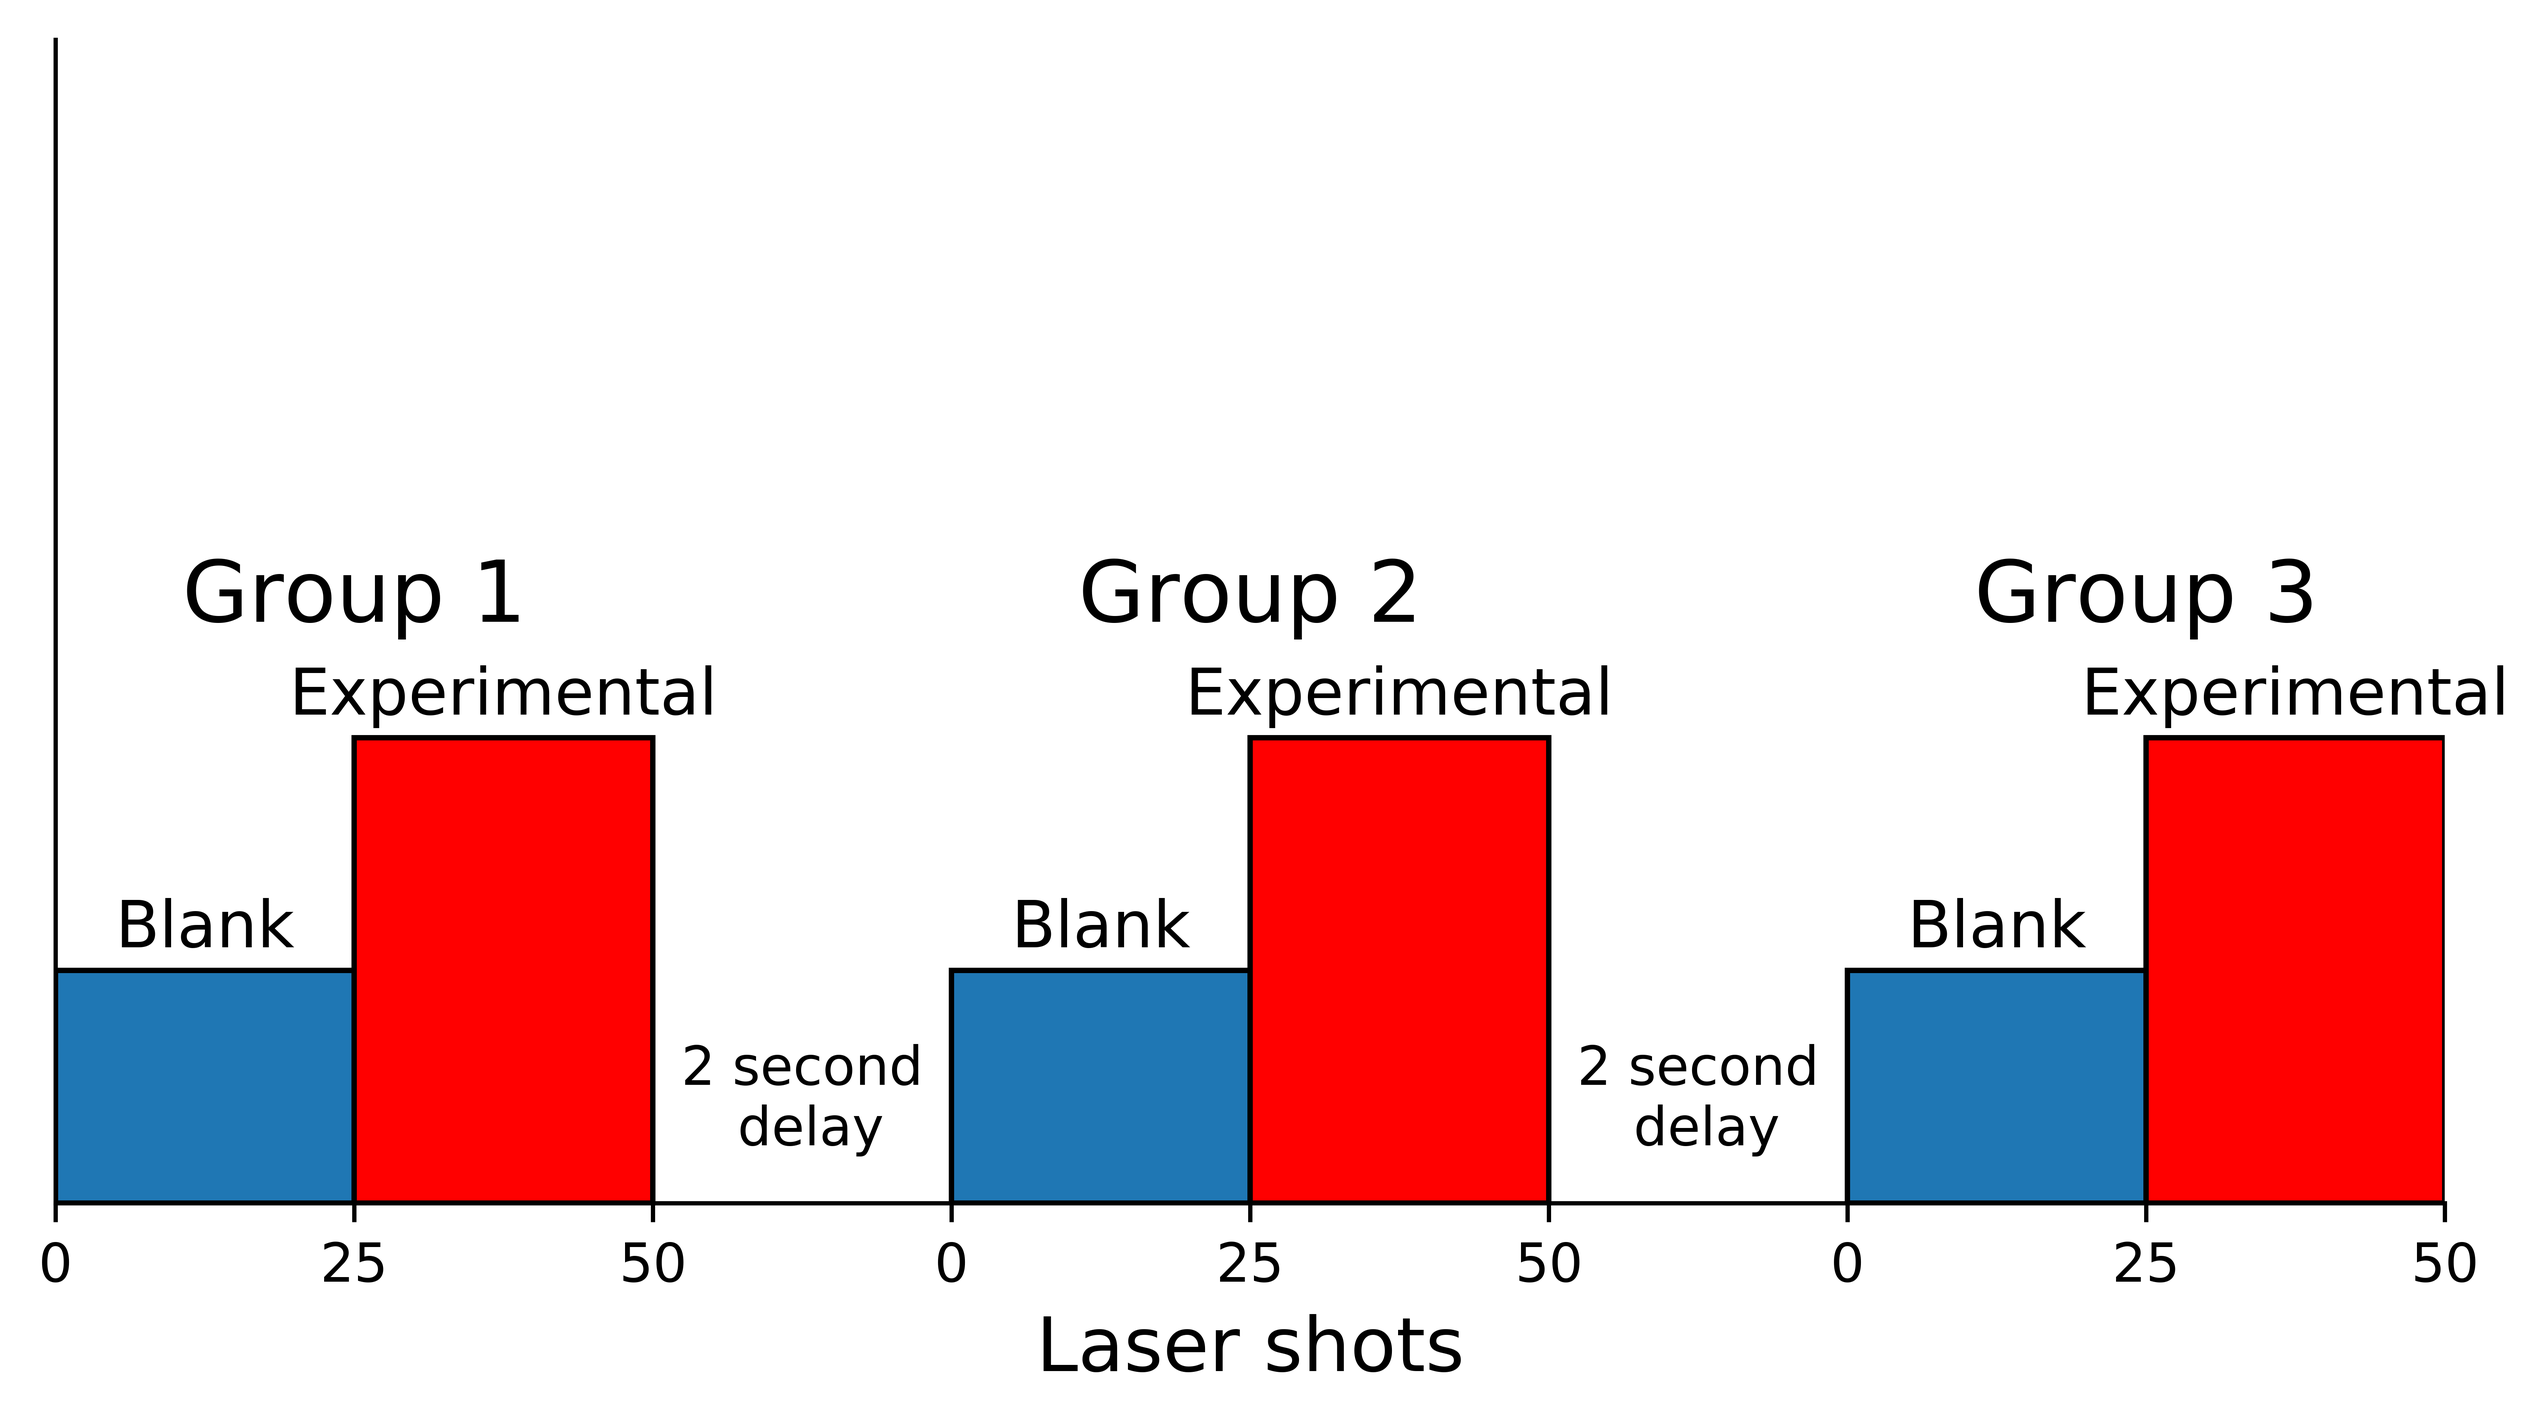
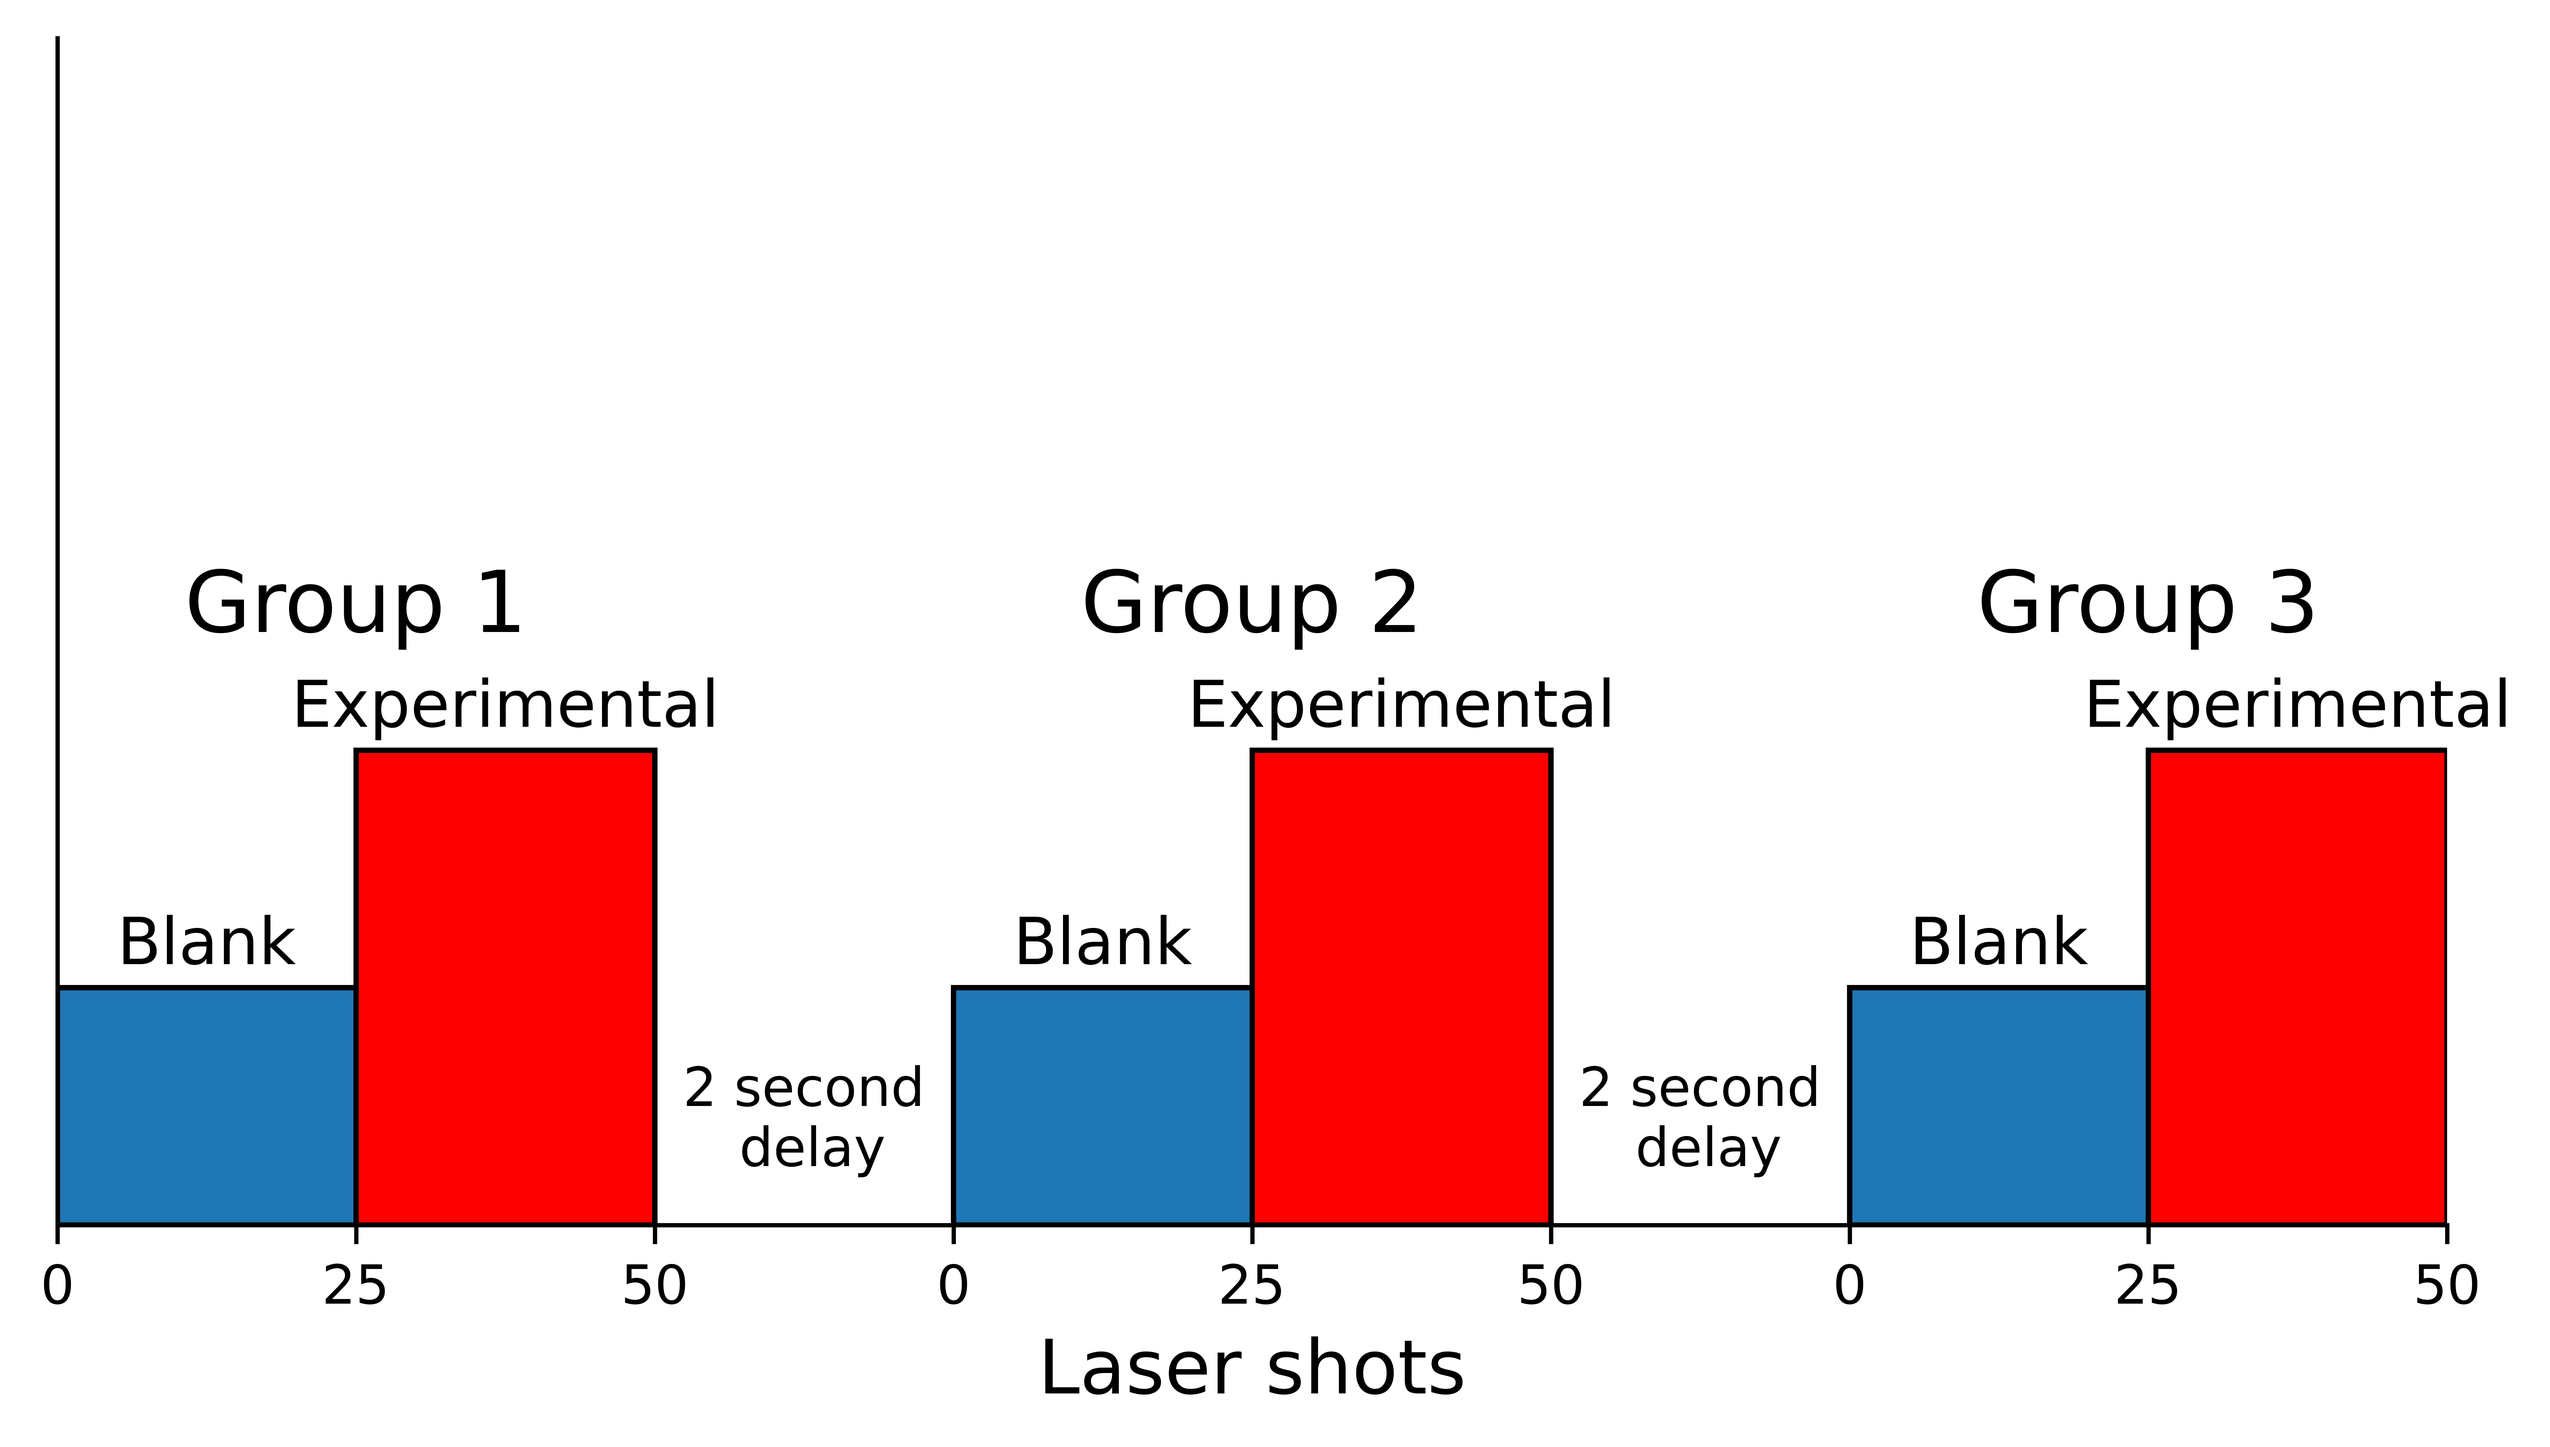
Update figure generator

diff --git a/pngs/groups_shots_pause.py b/pngs/groups_shots_pause.py
@@ -1,0 +1,47 @@
+# code for plotting the shots groups delay figure
+import matplotlib.pyplot as plt
+import matplotlib.patches as patches
+
+scale = 4
+f = plt.figure(figsize=(scale * 2, scale))
+
+ax = f.add_subplot(111)
+
+ax = plt.gca()
+# kill top / right borders
+ax.spines['right'].set_visible(False)
+ax.spines['top'].set_visible(False)
+
+# all six rectangles
+ax.add_patch(patches.Rectangle((0,   0), width=25, height=0.2, edgecolor='k'))
+ax.add_patch(patches.Rectangle((25,  0), width=25, height=0.4, edgecolor='k', facecolor='r'))
+ax.add_patch(patches.Rectangle((75,  0), width=25, height=0.2, edgecolor='k'))
+ax.add_patch(patches.Rectangle((100, 0), width=25, height=0.4, edgecolor='k', facecolor='r'))
+ax.add_patch(patches.Rectangle((150, 0), width=25, height=0.2, edgecolor='k'))
+ax.add_patch(patches.Rectangle((175, 0), width=25, height=0.4, edgecolor='k', facecolor='r'))
+
+# rectangle labels
+plt.text(12.5, 0.22, 'Blank', size=12, ha='center')
+plt.text(37.5, 0.42, 'Experimental', size=12, ha='center')
+plt.text(87.5, 0.22, 'Blank', size=12, ha='center')
+plt.text(112.5, 0.42, 'Experimental', size=12, ha='center')
+plt.text(162.5, 0.22, 'Blank', size=12, ha='center')
+plt.text(187.5, 0.42, 'Experimental', size=12, ha='center')
+
+# group labels
+plt.text(25,  0.5, 'Group 1', size=16, ha='center')
+plt.text(100, 0.5, 'Group 2', size=16, ha='center')
+plt.text(175, 0.5, 'Group 3', size=16, ha='center')
+
+# delay labels
+plt.text(62.5,  0.05, '2 second\n delay', ha='center', size=10)
+plt.text(137.5, 0.05, '2 second\n delay', ha='center', size=10)
+
+# customize x / y ticks
+plt.yticks([])
+positions = [0, 25, 50, 75, 100, 125, 150, 175, 200]
+labels = [0, 25, 50, 0, 25, 50, 0, 25, 50]
+plt.xticks(positions, labels)
+
+plt.xlabel('Laser shots', size=14)
+plt.savefig('groups_shots_pause.png', dpi=1000, bbox_inches='tight')

diff --git a/README.md b/README.md
@@ -11,8 +11,6 @@ Repository containing all Warren Lab MATLAB laser code written by David Weber. S
     <img src="pngs/gui_3_10_withlabels.png">
 </p>
 
-<img src="https://github.com/dsw7/WarrenLabLaserSoftware/blob/master/pngs/gui_3_10_withlabels.png">
-
 ## Description
 Label | Description
 ----- | -----------
@@ -40,59 +38,6 @@ Note that in the [Layout](#layout) example, the "user" has indicated they wish t
 <p align="center">
     <img src="pngs/groups_shots_pause.png">
 </p>
-
-<!---
-    # code for plotting the shots groups delay figure
-    import matplotlib.pyplot as plt
-    import matplotlib.patches as patches
-
-    scale = 4
-    f = plt.figure(figsize=(scale * 2, scale))
-
-    ax = f.add_subplot(111)
-
-    ax = plt.gca()
-    # kill top / right borders
-    ax.spines['right'].set_visible(False)
-    ax.spines['top'].set_visible(False)
-
-    # all six rectangles
-    ax.add_patch(patches.Rectangle((0,   0), width=25, height=0.2, edgecolor='k'))
-    ax.add_patch(patches.Rectangle((25,  0), width=25, height=0.4, edgecolor='k', facecolor='r'))
-    ax.add_patch(patches.Rectangle((75,  0), width=25, height=0.2, edgecolor='k'))
-    ax.add_patch(patches.Rectangle((100, 0), width=25, height=0.4, edgecolor='k', facecolor='r'))
-    ax.add_patch(patches.Rectangle((150, 0), width=25, height=0.2, edgecolor='k'))
-    ax.add_patch(patches.Rectangle((175, 0), width=25, height=0.4, edgecolor='k', facecolor='r'))
-
-    # rectangle labels
-    plt.text(12.5, 0.22, 'Blank', size=12, ha='center')
-    plt.text(37.5, 0.42, 'Experimental', size=12, ha='center')
-    plt.text(87.5, 0.22, 'Blank', size=12, ha='center')
-    plt.text(112.5, 0.42, 'Experimental', size=12, ha='center')
-    plt.text(162.5, 0.22, 'Blank', size=12, ha='center')
-    plt.text(187.5, 0.42, 'Experimental', size=12, ha='center')
-
-    # group labels
-    plt.text(25,  0.5, 'Group 1', size=16, ha='center')
-    plt.text(100, 0.5, 'Group 2', size=16, ha='center')
-    plt.text(175, 0.5, 'Group 3', size=16, ha='center')
-
-    # delay labels
-    plt.text(62.5,  0.05, '2 second\n delay', ha='center', size=10)
-    plt.text(137.5, 0.05, '2 second\n delay', ha='center', size=10)
-
-    # customize x / y ticks
-    plt.yticks([])
-    pos    = [0, 25, 50, 75, 100, 125, 150, 175, 200]
-    labels = [0, 25, 50, 0, 25, 50, 0, 25, 50]
-    plt.xticks(pos, labels)
-
-    plt.xlabel('Laser shots', size=14)
-
-    plt.savefig('figure.png', dpi=1000, bbox_inches='tight')
-
-    plt.show()
--->
 
 ## Description of all directories
 File / Directory | Description
